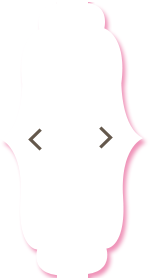
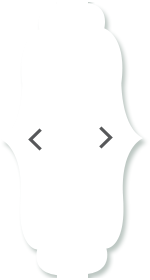
Remove pink colors

diff --git a/web/css/style.css b/web/css/style.css
@@ -292,7 +292,7 @@ body a{
   height:20px;
   width:20px;
   display:inline-block;
-  border:2px solid #fd9cb9;
+  border:2px solid;/* #fd9cb9;*/
   background:#FFF;
   border-radius:50%;
   -webkit-border-radius:50%;
@@ -301,8 +301,8 @@ body a{
   -ms-border-radius:50%;
 }
 .callbacks_here a:after{
-	border:2px solid #fd9cb9;
-	background:#fd9cb9;
+	border:2px solid #0f2531;/*#fd9cb9;*/
+	background:#0f2531;/*#fd9cb9;*/
 }
 .slider-caption {
 	position: absolute;
@@ -363,8 +363,8 @@ a.buy-btn:hover{
 	
 }
 .share-on{
-	background: rgba(90, 15, 22, 0.36);
-	padding: 0.8em 1em 0.5em;
+	background: rgba(147, 153, 147, 0.7);/*rgba(90, 15, 22, 0.36);*/
+    padding: 0.8em 1em 0.5em;
 	position: absolute;
 	width: 100%;
 	bottom: 0px;
@@ -2182,7 +2182,7 @@ h4.title {
 }
 .head-nav ul li a:hover, .head-nav ul li.active a {
 	border-bottom:none;
-	color:#f84f86;
+	color:#4982A2;/*#f84f86;*/
 }
 .head-nav ul li:nth-child(3) {
 	margin-left: 0;
